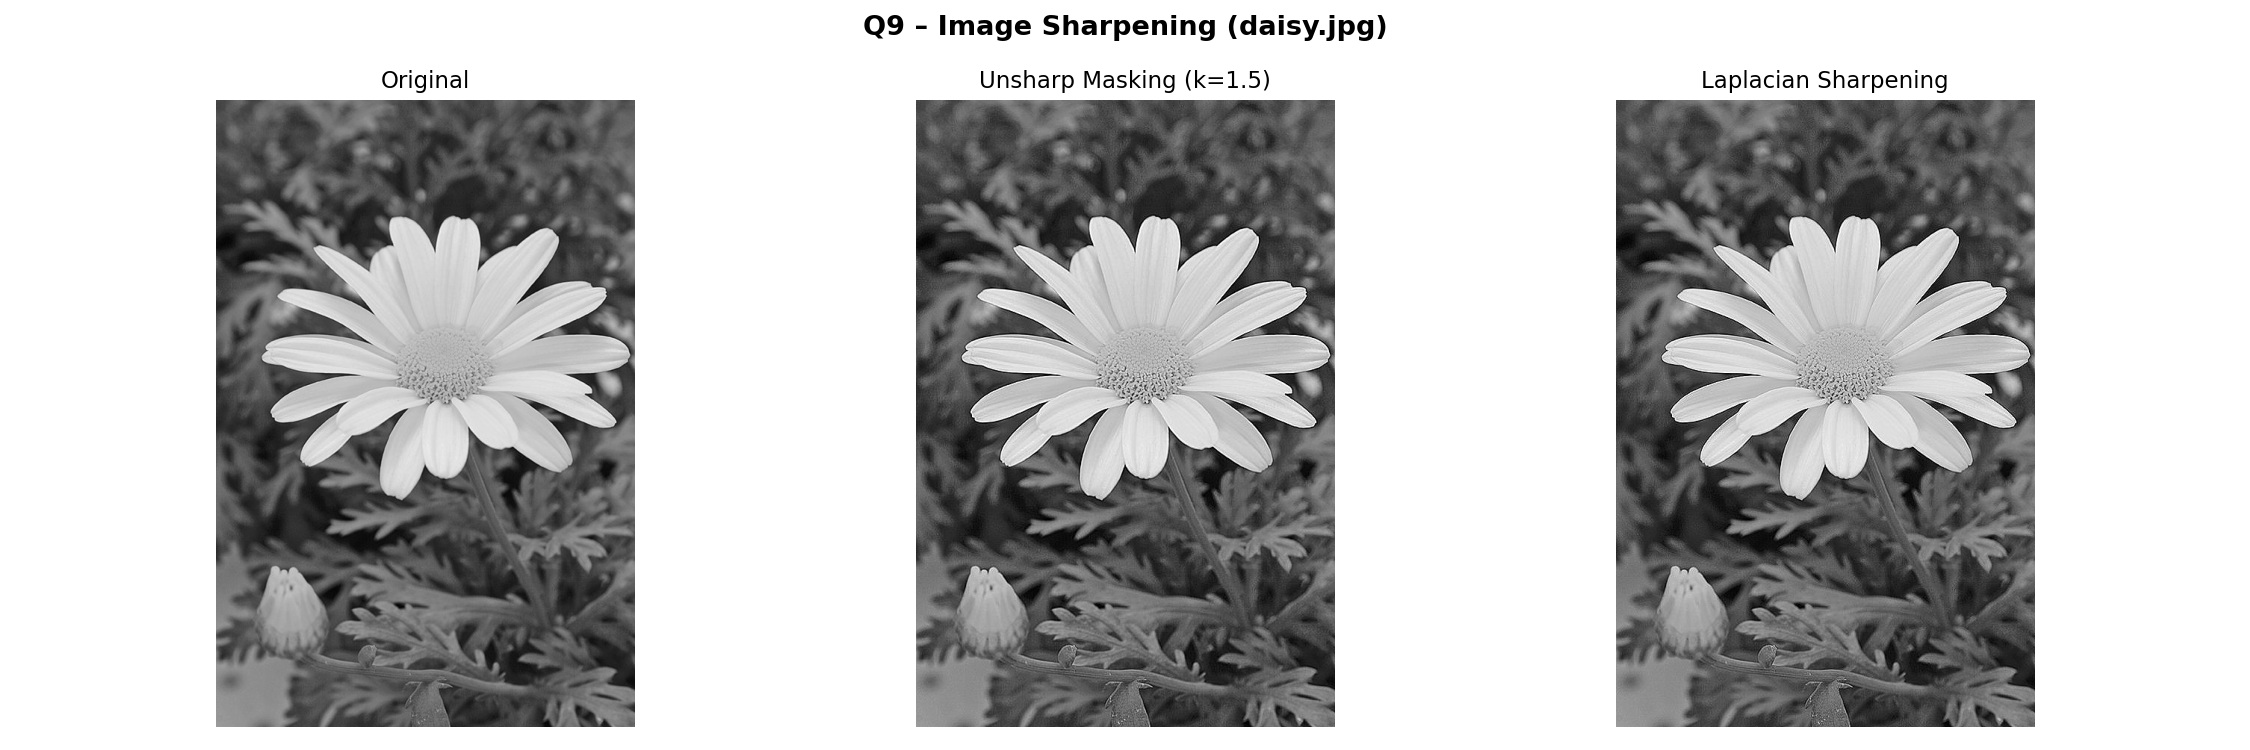
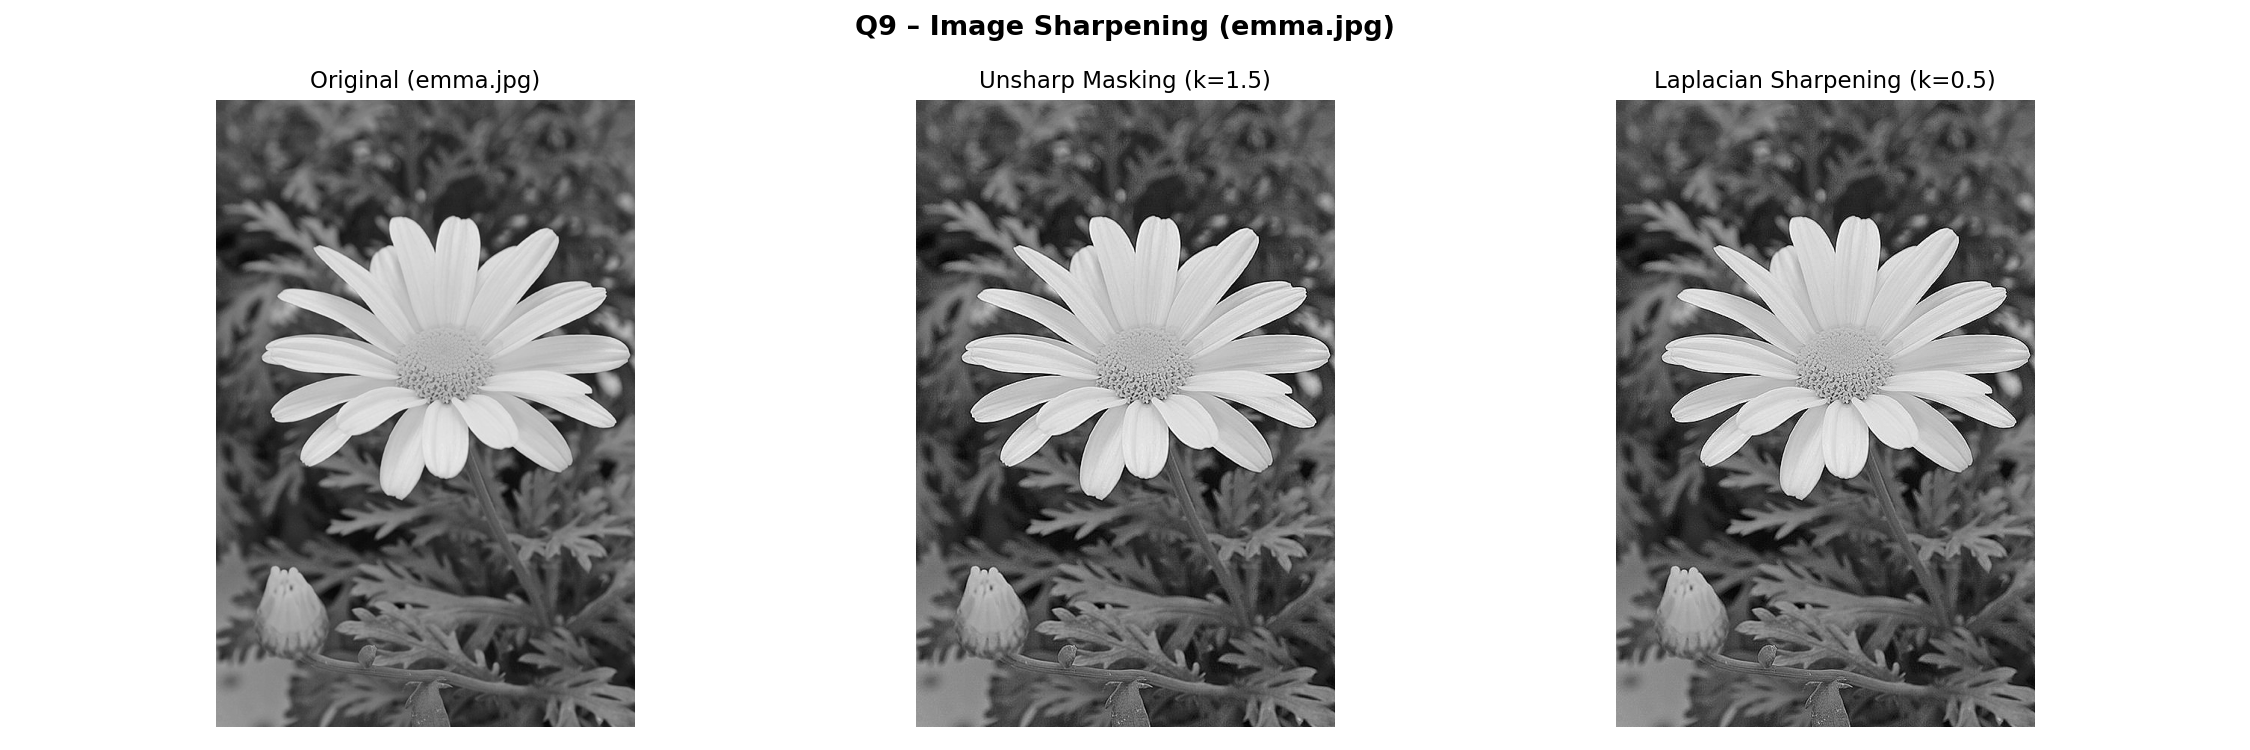
Update Q9

Changed region(s): [[0.3733, 0.0, 0.6222, 0.0613], [0.7156, 0.092, 0.9022, 0.1227], [0.1244, 0.092, 0.2489, 0.1227]]

diff --git a/utils/q9_sharpen.py b/utils/q9_sharpen.py
@@ -1,7 +1,8 @@
 """
-Q9: Image sharpening on daisy.jpg.
-    Technique: Unsharp Masking (add scaled Laplacian / high-frequency back)
-    sharpened = original + k * (original - blurred)
+Q9: Image sharpening on emma.jpg (image of choice).
+    Two techniques:
+      (a) Unsharp Masking  – sharpened = original + k * (original − blurred)
+      (b) Laplacian Sharpening – sharpened = original − k * Laplacian(original)
 """
 
 import cv2
@@ -18,36 +19,45 @@ class ImageSharpening:
             raise FileNotFoundError(f"Cannot load image: {image_path}")
 
     def run(self):
-        # Unsharp masking – classic sharpening approach
-        # Step 1: blur the image to extract the low-frequency (smooth) component
+        # ── (a) Unsharp Masking ───────────────────────────────────────────────
+        # Step 1: blur to extract low-frequency (smooth) component
         blurred = cv2.GaussianBlur(self.img, (5, 5), sigmaX=1.0)
 
-        # Step 2: high-frequency detail = original − blurred (the "mask")
+        # Step 2: high-frequency detail = original − blurred
         high_freq = self.img.astype(np.float64) - blurred.astype(np.float64)
 
-        # Step 3: add the detail back with a sharpening factor k
-        k = 1.5  # sharpening strength – tuned for daisy image
-        sharpened = np.clip(self.img.astype(np.float64) + k * high_freq, 0, 255).astype(np.uint8)
+        # Step 3: add detail back scaled by factor k
+        k = 1.5  # sharpening strength
+        sharpened = np.clip(
+            self.img.astype(np.float64) + k * high_freq, 0, 255
+        ).astype(np.uint8)
 
-        # Also try a Laplacian-based sharpening for comparison
+        # ── (b) Laplacian Sharpening ──────────────────────────────────────────
+        # Laplacian captures second-order edges (fine detail / transitions)
+        # Subtract it to enhance edges without boosting noise as much
         laplacian = cv2.Laplacian(self.img, cv2.CV_64F)
-        lap_sharp = np.clip(self.img.astype(np.float64) - 0.5 * laplacian, 0, 255).astype(np.uint8)
+        lap_sharp = np.clip(
+            self.img.astype(np.float64) - 0.5 * laplacian, 0, 255
+        ).astype(np.uint8)
 
-        # Save
-        cv2.imwrite(os.path.join(self.output_dir, "q9_unsharp_mask.png"), sharpened)
+        # Save outputs
+        cv2.imwrite(os.path.join(self.output_dir, "q9_unsharp_mask.png"),    sharpened)
         cv2.imwrite(os.path.join(self.output_dir, "q9_laplacian_sharp.png"), lap_sharp)
 
-        # Comparison figure
+        # ── Figure ────────────────────────────────────────────────────────────
         fig, axes = plt.subplots(1, 3, figsize=(15, 5))
-        for ax, im, title in zip(
-            axes,
-            [self.img, sharpened, lap_sharp],
-            ["Original", "Unsharp Masking (k=1.5)", "Laplacian Sharpening"]
-        ):
+        images = [self.img, sharpened, lap_sharp]
+        titles = [
+            "Original (emma.jpg)",
+            "Unsharp Masking (k=1.5)",
+            "Laplacian Sharpening (k=0.5)"
+        ]
+        for ax, im, title in zip(axes, images, titles):
             ax.imshow(im, cmap="gray", vmin=0, vmax=255)
             ax.set_title(title, fontsize=11)
             ax.axis("off")
-        plt.suptitle("Q9 – Image Sharpening (daisy.jpg)", fontsize=13, fontweight="bold")
+
+        plt.suptitle("Q9 – Image Sharpening (emma.jpg)", fontsize=13, fontweight="bold")
         plt.tight_layout()
         plt.savefig(os.path.join(self.output_dir, "q9_sharpening_results.png"), dpi=150)
         plt.close()
